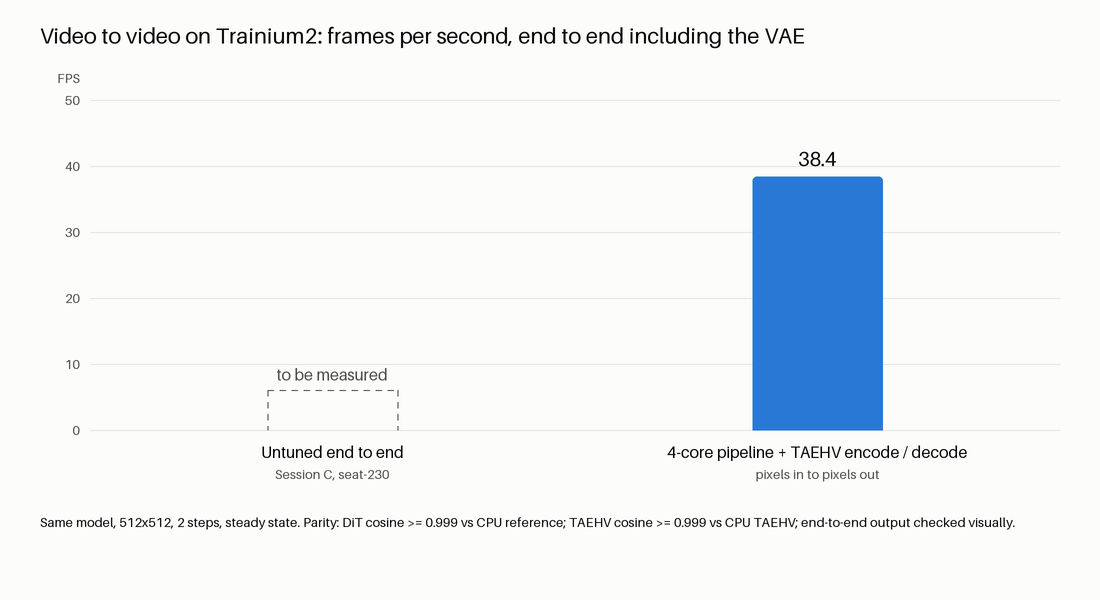
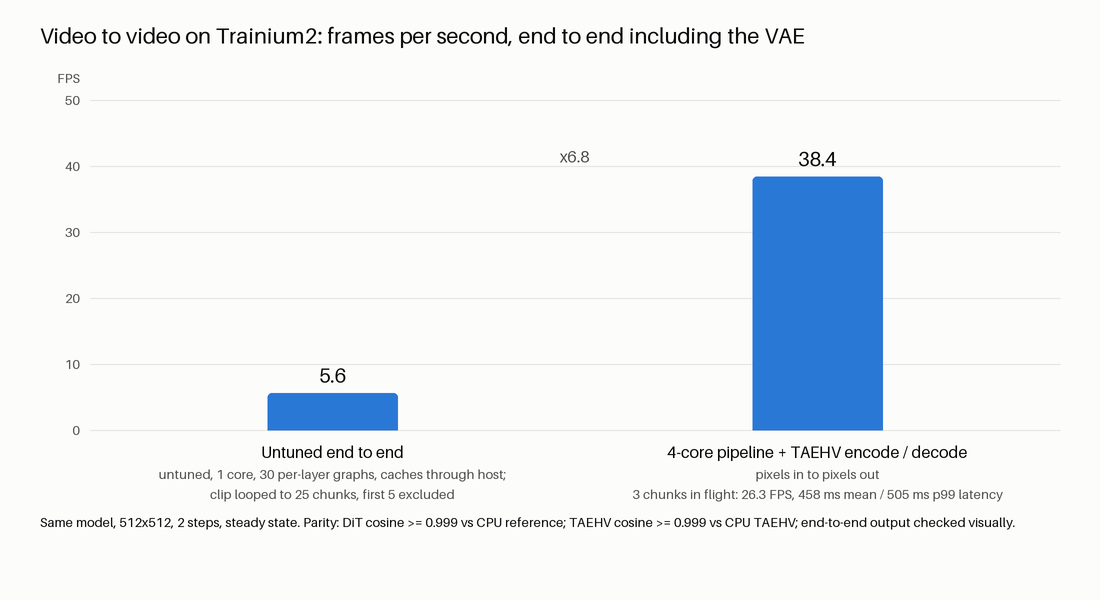
Track 2: end-to-end waterfall with the measured untuned baseline (5.62 FPS) and 3-in-flight latency line

diff --git a/tier2/make_waterfall.py b/tier2/make_waterfall.py
@@ -3,7 +3,7 @@
     python make_waterfall.py [untuned_end_to_end_fps]
 
 tier2/out/fps_waterfall_dit.png   DiT only: untuned full model (G2) -> resident caches + 8-layer graphs -> 4 cores
-tier2/out/fps_waterfall_e2e.png   end to end incl. VAE: untuned baseline (Session C; placeholder until given) -> 4 cores
+tier2/out/fps_waterfall_e2e.png   end to end incl. VAE: untuned baseline (Session C, 5.62 FPS by default) -> 4 cores
 """
 import json
 import sys
@@ -28,7 +28,8 @@ e2e = json.load(open(ART_DIR / "g4_e2e_4core.json"))["steady_state_fps"]
 g1 = json.load(open(ART_DIR / f"g1_block0_{TAG}_bench.json"))["latency_ms"]["mean"]
 r1 = json.load(open(ART_DIR / "g2_resident_1layers.json"))["latency_ms_call_plus_y_to_host"]["mean"]
 est = lambda ms: 4 / (ms / 1e3 * 30 * 2)
-e2e_base = float(sys.argv[1]) if len(sys.argv) > 1 else None
+# Untuned end-to-end baseline: Session C's looped-clip run on seat-230 (branch tier2-g2, commit 8b92545).
+e2e_base = float(sys.argv[1]) if len(sys.argv) > 1 else 5.62
 
 
 def draw(path, title, steps, caption, footnote, ymax):
@@ -64,7 +65,8 @@ def draw(path, title, steps, caption, footnote, ymax):
                 d.text((cx - slot / 2, py(max(fps, prev)) - 14 * S), f"x{fps / prev:.1f}", font=f_lab, fill=INK2, anchor="mb")
             prev = fps
         d.text((cx, base + 12 * S), name, font=f_lab, fill=INK, anchor="ma")
-        d.text((cx, base + 36 * S), sub, font=f_small, fill=INK2, anchor="ma")
+        for k, line in enumerate(sub.split("\n")):
+            d.text((cx, base + (36 + 20 * k) * S), line, font=f_small, fill=INK2, anchor="ma")
     d.text((40 * S, H - 86 * S), caption, font=f_small, fill=INK)
     if footnote:
         d.text((40 * S, H - 58 * S), footnote, font=f_small, fill=INK2)
@@ -81,8 +83,10 @@ draw("fps_waterfall_dit.png", "Causal Wan DiT on Trainium2: frames per second, D
      f"{est(r1):.1f} FPS (resident cache, 1 layer per graph).", 50.0)
 
 draw("fps_waterfall_e2e.png", "Video to video on Trainium2: frames per second, end to end including the VAE",
-     [("Untuned end to end", "Session C, seat-230" if e2e_base is None else "Session C, seat-230, measured", e2e_base),
-      ("4-core pipeline + TAEHV encode / decode", "pixels in to pixels out", e2e)],
+     [("Untuned end to end", "untuned, 1 core, 30 per-layer graphs, caches through host;\n"
+                             "clip looped to 25 chunks, first 5 excluded", e2e_base),
+      ("4-core pipeline + TAEHV encode / decode", "pixels in to pixels out\n"
+       "3 chunks in flight: 26.3 FPS, 458 ms mean / 505 ms p99 latency", e2e)],
      "Same model, 512x512, 2 steps, steady state. Parity: DiT cosine >= 0.999 vs CPU reference; TAEHV cosine >= 0.999 "
      "vs CPU TAEHV; end-to-end output checked visually.", None, 50.0)
 print("WATERFALLS OK", {"untuned": round(untuned, 2), "one": one, "four": four, "e2e": e2e, "e2e_base": e2e_base})

diff --git a/reports/tier2_story.md b/reports/tier2_story.md
@@ -195,9 +195,10 @@ measured untuned full model from G2 (0.65 s per chunk). Estimated from block lat
 ![End to end including the VAE](../tier2/out/fps_waterfall_e2e.png)
 
 Same model, 512x512, 2 steps, steady state. Parity: DiT cosine >= 0.999 vs CPU reference; TAEHV cosine >= 0.999 vs
-CPU TAEHV (Session C); end-to-end output checked visually. **The first bar is a placeholder**: the untuned
-end-to-end baseline is being measured by Session C on seat-230. Regenerate with
-`python make_waterfall.py <baseline_fps>` in the pod once the number is in.
+CPU TAEHV (Session C); end-to-end output checked visually. The first bar, 5.62 FPS, is Session C's measured
+untuned end-to-end run on seat-230 (branch `tier2-g2`, commit `8b92545`): 1 core, 30 per-layer graphs, caches
+through the host; clip looped to 25 chunks, first 5 excluded. The 4-core pipeline is 6.8x that. With 3 chunks in
+flight instead of 6 it runs at 26.3 FPS with 458 ms mean / 505 ms p99 latency.
 
 ## 7. What is still projected or missing
 
